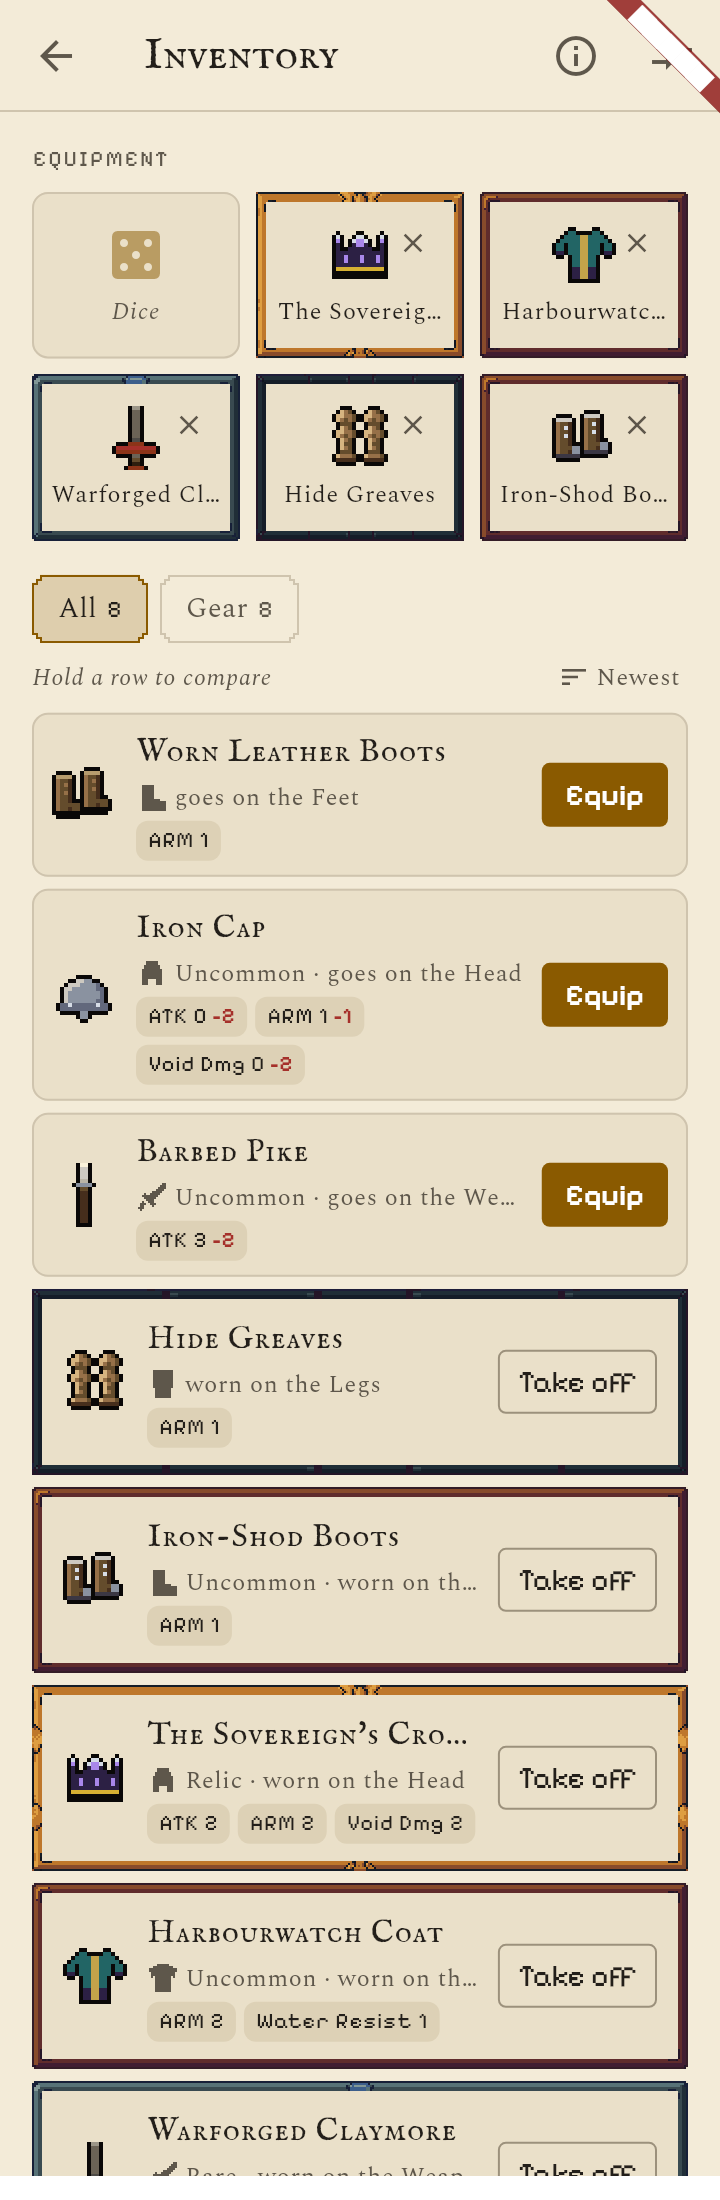
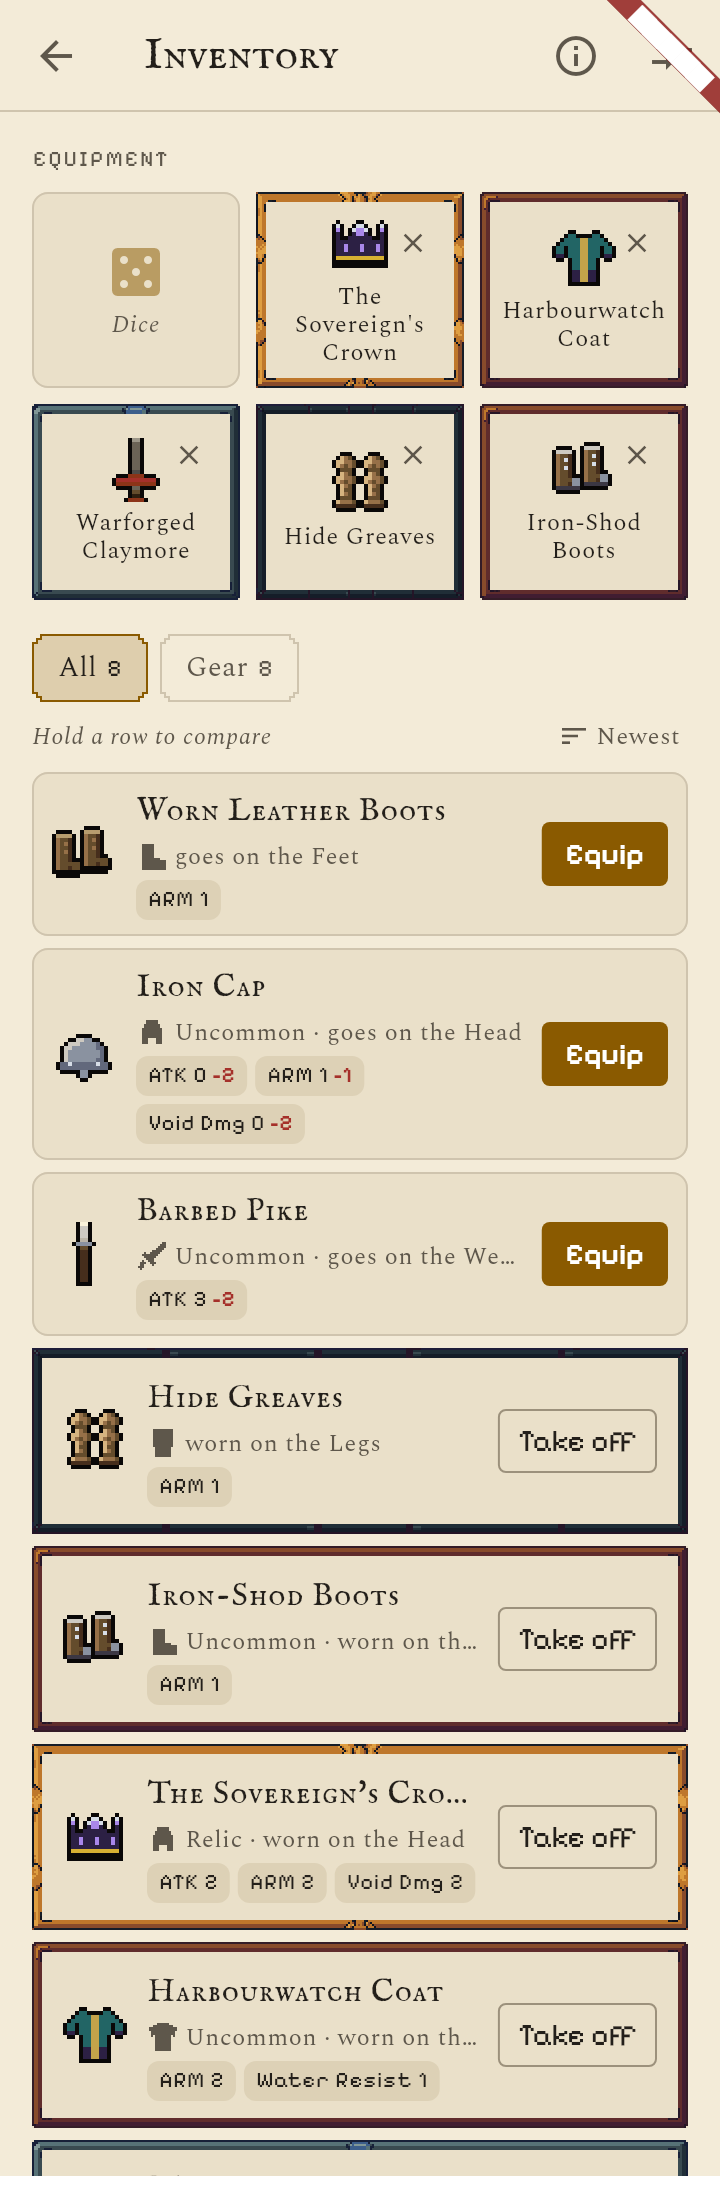
v1.989.0: worn names whole in the equipment tiles
Claude-Session: https://claude.ai/code/session_019ETFw2Y7wpHSXWG5mmACty

diff --git a/lib/screens/inventory_screen.dart b/lib/screens/inventory_screen.dart
@@ -712,11 +712,14 @@ class _InventoryBodyState extends ConsumerState<_InventoryBody> {
       padding: const EdgeInsets.all(16),
       children: [
         caption(tr(ref, 'equipment_section')),
-        GridView.count(
-          crossAxisCount: 3,
-          mainAxisSpacing: 8,
-          crossAxisSpacing: 8,
-          childAspectRatio: 1.25,
+        GridView(
+          // A fixed height: a worn piece's name takes up to three lines (v1.989).
+          gridDelegate: const SliverGridDelegateWithFixedCrossAxisCount(
+            crossAxisCount: 3,
+            mainAxisSpacing: 8,
+            crossAxisSpacing: 8,
+            mainAxisExtent: 98,
+          ),
           shrinkWrap: true,
           physics: const NeverScrollableScrollPhysics(),
           children: slotTiles,

diff --git a/lib/widgets/inventory_parts.dart b/lib/widgets/inventory_parts.dart
@@ -338,10 +338,11 @@ class InventorySlotTile extends StatelessWidget {
                 Opacity(opacity: filled ? 1 : 0.5, child: icon),
                 const SizedBox(height: 4),
                 Text(worn ?? slotLabel,
-                    maxLines: 1,
+                    maxLines: filled ? 3 : 1,
                     overflow: TextOverflow.ellipsis,
                     textAlign: TextAlign.center,
                     style: theme.textTheme.bodySmall?.copyWith(
+                        height: 1.15,
                         color: filled ? null : ink.ash,
                         fontStyle: filled ? null : FontStyle.italic)),
               ],

diff --git a/lib/app_info.dart b/lib/app_info.dart
@@ -1,6 +1,6 @@
 class AppInfo {
   static const String name = 'Narrative Data App';
-  static const String version = '1.987.0';
+  static const String version = '1.989.0';
 
   static String get displayName => '$name v$version';
 }

diff --git a/CHANGELOG.md b/CHANGELOG.md
@@ -8,6 +8,9 @@ and the version it bumped `pubspec.yaml` to). Format loosely follows
 History before v1.23.1 predates per-PR versioning in this repository and
 isn't reconstructable from git history alone.
 
+## [1.989.0+1025]
+- Inventory: a worn piece's name shows whole in its equipment tile (up to three lines, the tiles a little taller), in English and French.
+
 ## [1.987.0+1023]
 - Inventory: what is worn wears its rarity's deep frame, in the equipment slots and in the bag's worn rows (common to legendary), like the other story screens.
 
